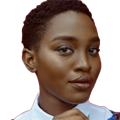
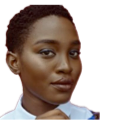
The people in the pens and around the tower stand the same height
Each cut-out photo is cropped so the head is the same size with the chin in
the same place, and an oval trims what each kept of its own clothes. Everyone
then stands on the guards' body, smaller, in the colour of what they wear.

diff --git a/apps/site/src/pages/pens.tsx b/apps/site/src/pages/pens.tsx
@@ -136,9 +136,7 @@ function Guard({
         <rect x={-HEAD} y={line} width={HEAD * 2} height={HEAD} />
       </clipPath>
       {/* A suit, arms folded: he isn't going anywhere */}
-      <rect className="pens-line" x={-12} y={44} width={10} height={20} rx={3} fill="#2b2b33" />
-      <rect className="pens-line" x={2} y={44} width={10} height={20} rx={3} fill="#2b2b33" />
-      <path className="pens-line" d="M-28 14Q-28 -4 -10 -6H10Q28 -4 28 14V46H-28Z" fill={suit} />
+      <Body top={suit} />
       <path className="pens-line" d="M-9 -6L0 12L9 -6Z" fill={shirt} />
       <rect className="pens-line" x={-25} y={20} width={50} height={13} rx={6.5} fill={suit} />
       <rect x={-HEAD * 0.2} y={line - 7} width={HEAD * 0.4} height={9} rx={4.5} fill="#3a1414" />
@@ -181,9 +179,21 @@ function Kept({ who, x, i }: { who: string; x: number; i: number }) {
   );
 }
 
+/** Legs and a torso, under a head of HEAD with its chin at the origin */
+function Body({ top }: { top: string }) {
+  return (
+    <>
+      <rect className="pens-line" x={-12} y={44} width={10} height={20} rx={3} fill="#2b2b33" />
+      <rect className="pens-line" x={2} y={44} width={10} height={20} rx={3} fill="#2b2b33" />
+      <path className="pens-line" d="M-28 14Q-28 -4 -10 -6H10Q28 -4 28 14V46H-28Z" fill={top} />
+    </>
+  );
+}
+
 /**
- * Someone from the demos, standing: their photo cut out to head and shoulders
- * (`public/faces/cut/`), on a body in the colour of what they're wearing
+ * Someone from the demos, standing: their photo cut out to the head, all at
+ * the same size with the chin at the same place (`public/faces/cut/`), on the
+ * guards' body in the colour of what they're wearing, a little smaller
  */
 const TOPS: Readonly<Record<string, string>> = {
   maya: '#a3122a',
@@ -197,50 +207,25 @@ const TOPS: Readonly<Record<string, string>> = {
   ben: '#3c4630',
   ida: '#3a3d48',
 };
-const CUT = 46;
-/** How much of the photo's width the shoulders take, at its foot */
-const SHOULDERS = 0.84;
-const LEGS = 14;
-const TORSO = 24;
+/** How much smaller than a guard everyone else is drawn */
+const SMALL = 0.62;
+/** Where the chin is in a cut-out, as a fraction of its height */
+const CHIN = 0.9;
 
 function Person({ who, x }: { who: string; x: number }) {
-  const shoulders = GROUND - LEGS - TORSO;
   return (
-    <g>
-      <rect
-        className="pens-line"
-        x={x - 8}
-        y={GROUND - LEGS - 2}
-        width={7}
-        height={LEGS + 2}
-        rx={2}
-        fill="#2b2b33"
-      />
-      <rect
-        className="pens-line"
-        x={x + 1}
-        y={GROUND - LEGS - 2}
-        width={7}
-        height={LEGS + 2}
-        rx={2}
-        fill="#2b2b33"
-      />
-      {/* As wide as the shoulders in the photo, so the shirt runs on down */}
-      <rect
-        className="pens-line"
-        x={x - (CUT * SHOULDERS) / 2}
-        y={shoulders - 6}
-        width={CUT * SHOULDERS}
-        height={TORSO + 6}
-        rx={9}
-        fill={TOPS[who] ?? 'var(--card)'}
-      />
+    <g transform={`translate(${x} ${GROUND}) scale(${SMALL}) translate(0 ${-BODY})`}>
+      <clipPath id={`${who}-head`}>
+        <ellipse cx={0} cy={-HEAD * CHIN * 0.5} rx={HEAD * 0.4} ry={HEAD * CHIN * 0.52} />
+      </clipPath>
+      <Body top={TOPS[who] ?? 'var(--card)'} />
       <image
         href={`/faces/cut/${who}.png`}
-        x={x - CUT / 2}
-        y={shoulders - CUT + 4}
-        width={CUT}
-        height={CUT}
+        x={-HEAD / 2}
+        y={-HEAD * CHIN}
+        width={HEAD}
+        height={HEAD}
+        clipPath={`url(#${who}-head)`}
       />
     </g>
   );
